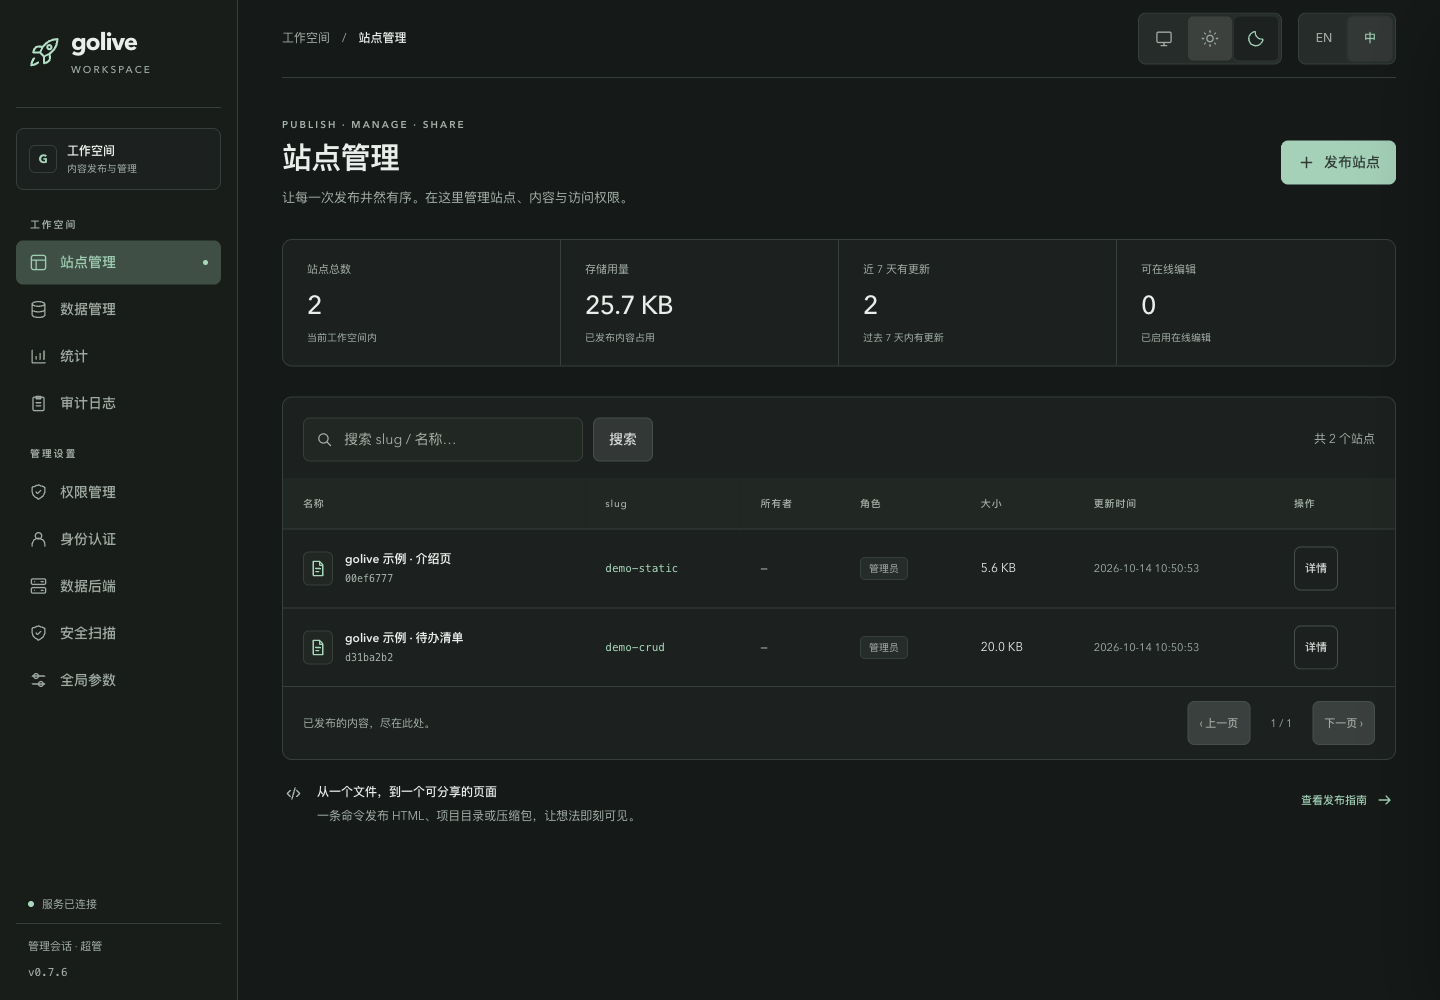
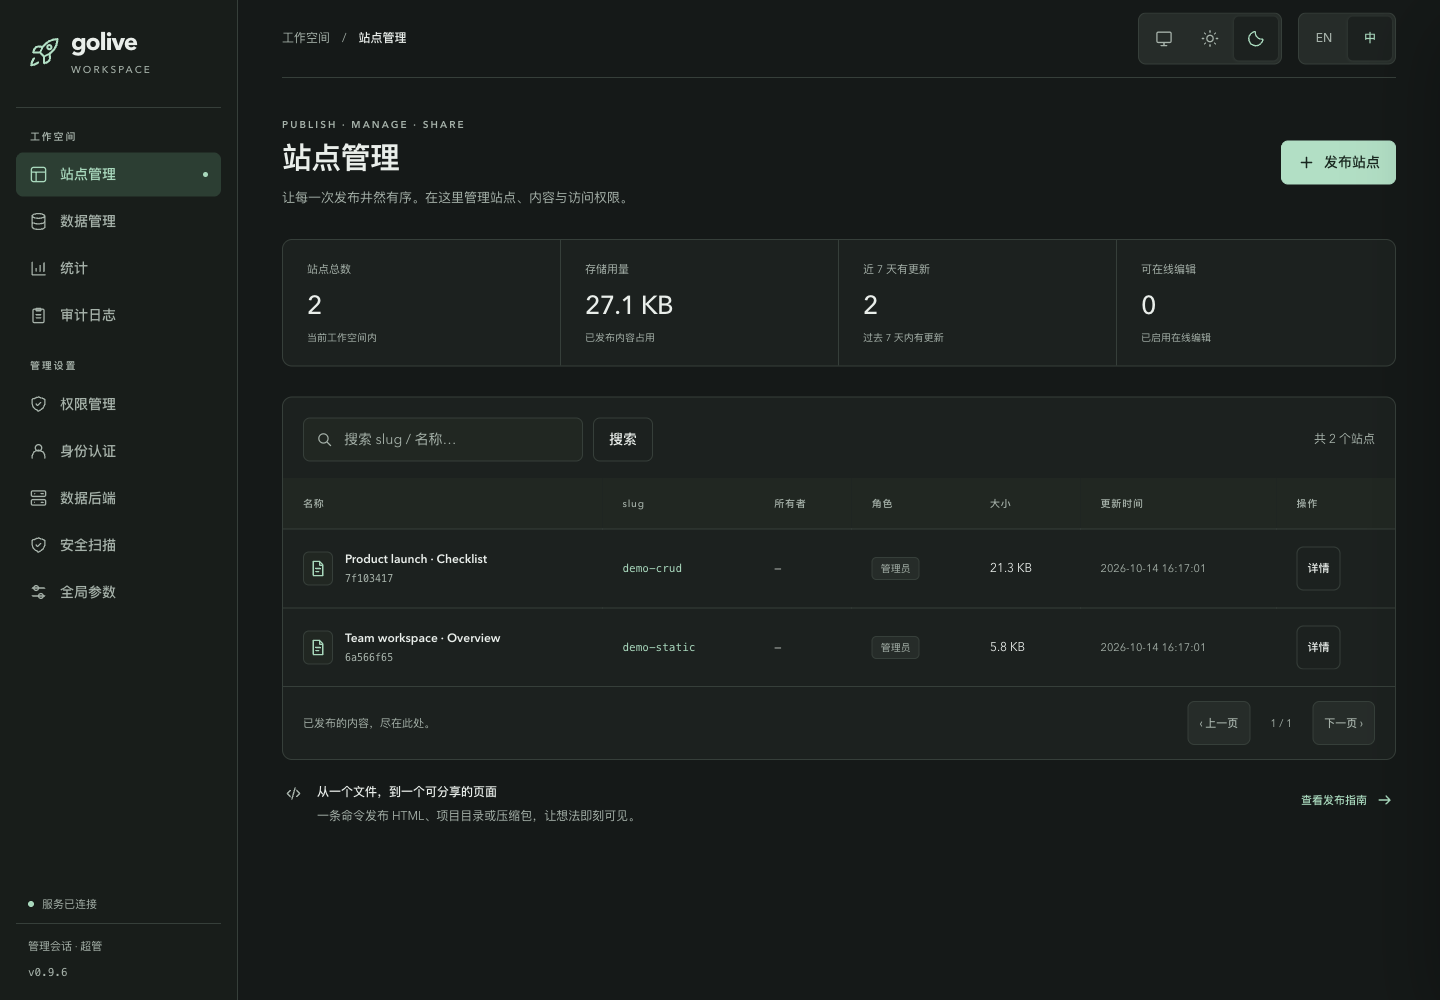
Docs 0.9.6: refresh admin screenshots, fix PyPI links and trim roadmaps

diff --git a/golive/__init__.py b/golive/__init__.py
@@ -1,3 +1,3 @@
 """html-golive — self-hosted one-command HTML deployment."""
 
-__version__ = "0.9.5"
+__version__ = "0.9.6"

diff --git a/README.md b/README.md
@@ -3,7 +3,7 @@
 [![CI](https://github.com/Songhonglei/html-golive/actions/workflows/ci.yml/badge.svg)](https://github.com/Songhonglei/html-golive/actions)
 [![PyPI](https://img.shields.io/pypi/v/html-golive)](https://pypi.org/project/html-golive/)
 [![Python](https://img.shields.io/pypi/pyversions/html-golive)](https://pypi.org/project/html-golive/)
-[![License: MIT](https://img.shields.io/github/license/Songhonglei/html-golive)](LICENSE)
+[![License: MIT](https://img.shields.io/github/license/Songhonglei/html-golive)](https://github.com/Songhonglei/html-golive/blob/main/LICENSE)
 
 > **Self-hosted one-command HTML deployment — Vercel-lite for your intranet.**
 
@@ -25,7 +25,7 @@ golive publish report.html --name "Q3 Report" --slug q3
 ```
 
 <p align="center">
-  <img src="docs/assets/demo.svg" alt="install, publish and serve an HTML page in three commands" width="760">
+  <img src="https://raw.githubusercontent.com/Songhonglei/html-golive/main/docs/assets/demo.svg" alt="install, publish and serve an HTML page in three commands" width="760">
 </p>
 
 Something not working? Run `golive verify` and paste the output into an issue.
@@ -45,11 +45,18 @@ Something not working? Run `golive verify` and paste the output into an issue.
 - [Docker](#docker)
 - [Roadmap](#roadmap)
 
-> 📖 **Full user manual**: [docs/manual.md](docs/manual.md) — every feature,
+> 📖 **Full user manual**: [docs/manual.md](https://github.com/Songhonglei/html-golive/blob/main/docs/manual.md) — every feature,
 > organised by task (publishing, editor, access control, data, security,
 > identity, migration, FAQ).
 
-![The admin portal — site management](docs/assets/admin-portal.png)
+![The admin portal — light theme](https://raw.githubusercontent.com/Songhonglei/html-golive/main/docs/assets/admin-portal.png)
+
+<details>
+<summary>Dark theme</summary>
+
+![The admin portal — dark theme](https://raw.githubusercontent.com/Songhonglei/html-golive/main/docs/assets/admin-workspace/dark-en.png)
+
+</details>
 
 <sub>The built-in admin portal at `/admin`: sites, data, permissions,
 stats, audit log, identity, data backend, security and settings —
@@ -163,7 +170,7 @@ signature-verified against the IdP's published keys (requires `pip install
 >   admins: [alice@corp.example]
 > ```
 > A common slip is putting `admins:` at the top level — it has no effect
-> there. See [manual §16](docs/manual.md#16-identity--login) for details.
+> there. See [manual §16](https://github.com/Songhonglei/html-golive/blob/main/docs/manual.md#16-identity--login) for details.
 
 ---
 
@@ -183,7 +190,7 @@ Two things bite people:
   force-pushed `main` and rewrote history. Recovery commands are in the
   guide below (force pushes to `main` are now blocked).
 
-📖 **[docs/upgrading.md](docs/upgrading.md)** — PyPI / pipx / git paths, the
+📖 **[docs/upgrading.md](https://github.com/Songhonglei/html-golive/blob/main/docs/upgrading.md)** — PyPI / pipx / git paths, the
 v0.7.0 history-rewrite recovery (with and without local changes), the
 0.6→0.7 SQLite data-layer default change, and how to roll back.
 
@@ -298,7 +305,7 @@ With the default backends the three SQLite/filesystem entries above are
 the entire persistence story — no external service is involved. Pages
 using `TemplateAPI` reach `data.db` through `golive serve`'s
 `/api/data` endpoint, so they must be loaded from the server rather than
-opened as `file://`. See [docs/data-layer.md](docs/data-layer.md).
+opened as `file://`. See [docs/data-layer.md](https://github.com/Songhonglei/html-golive/blob/main/docs/data-layer.md).
 
 ## Configuration
 
@@ -309,8 +316,8 @@ wins over yaml**:
 
 Lookup order: `--config <path>` → `$GOLIVE_CONFIG` → `./golive.yaml` →
 `$GOLIVE_HOME/golive.yaml`. Full annotated example:
-[golive.example.yaml](golive.example.yaml) · backend combinations:
-[docs/backends.md](docs/backends.md)
+[golive.example.yaml](https://github.com/Songhonglei/html-golive/blob/main/golive.example.yaml) · backend combinations:
+[docs/backends.md](https://github.com/Songhonglei/html-golive/blob/main/docs/backends.md)
 
 ### Environment variables
 
@@ -373,7 +380,7 @@ HTML, so RLS is mandatory there.
 
 API signatures are **stable contracts** — pages built on any golive
 deployment run unchanged on yours. Full guide, including the RLS notes:
-[docs/data-layer.md](docs/data-layer.md).
+[docs/data-layer.md](https://github.com/Songhonglei/html-golive/blob/main/docs/data-layer.md).
 
 > **Note**: if no data backend is configured, `--data-model` publishes
 > still succeed — the page gets a stub API that raises a clear
@@ -382,7 +389,7 @@ deployment run unchanged on yours. Full guide, including the RLS notes:
 
 Porting pages from another deployment?
 `golive migrate-check page.html` reports anything deployment-specific
-([migration guide](docs/migrate-from-intranet.md)).
+([migration guide](https://github.com/Songhonglei/html-golive/blob/main/docs/migrate-from-intranet.md)).
 
 ## Security scanning
 
@@ -393,7 +400,7 @@ from any OpenAI-compatible LLM (`security.llm.base_url`; works with
 OpenAI / Azure / Ollama / self-hosted gateways). Unconfigured installs
 keep pure rule verdicts; `strict_mode: true` refuses to publish without
 AI review. Extend with your own YAML rules, or bypass a false positive
-for content warnings with `--skip-content-scan`; credentials always block. Details: [docs/security.md](docs/security.md)
+for content warnings with `--skip-content-scan`; credentials always block. Details: [docs/security.md](https://github.com/Songhonglei/html-golive/blob/main/docs/security.md)
 
 ## Docker
 
@@ -404,37 +411,17 @@ docker compose --profile minio up -d        # + local S3 stack for images
 
 ## Roadmap
 
-- ~~**M1 — core**: publish/serve/rollback, styles, clone, preview, scan~~ ✅ v0.1
-- ~~**M2 — data layer**: Supabase backend trio, TemplateAPI/SupabaseAPI
-  injection, S3 adapters, migrate-check, Docker Compose~~ ✅ v0.2
-- ~~**M3 — editing & identity**: inline editor with versioned save API,
-  watermarking, OpenAI-compatible LLM security review, generic OIDC~~ ✅ v0.3
-- ~~**M4 — docs & polish**: OIDC provider presets, editor image upload,
-  persistent cookie secret, full user manual~~ ✅ v0.4
-- ~~**M5 — admin portal**: web operations console at `/admin`, role model
-  (superadmin/owner/maintainer), ownership transfer, audit trail~~ ✅ v0.5
-- ~~**M6 — data management**: data tab in the portal, audit log
-  rotation~~ ✅ v0.6
-- ~~**M7 — production identity & config**: id_token signature verification
-  for OIDC, trusted reverse-proxy auth, four admin pages (identity / data
-  backend / security / settings), settings & scan rules in the database,
-  English-by-default CLI, shareable LAN URLs~~ ✅ v0.7.5
-- ~~**M8 — data portability & self-check**: `golive export` / `import` /
-  `migrate` across sqlite, postgres and supabase, and `golive verify` for a
-  real end-to-end test of the data path~~ ✅ v0.8
+- WebDAV storage support.
+- Large-table aggregation and multi-instance sessions.
+- Editing conflict handling and group-based permissions.
 
-**Beyond v0.8** — the groundwork is complete, so what comes next is driven
-by what people actually run into. Candidates, roughly in order of likely
-demand: more storage channels (WebDAV), aggregation for very large tables, a
-shared session store (redis) for multi-instance setups, multi-user editing
-conflict UX, and group-based ACLs. If you hit a wall or want one of these sooner,
-[open an issue](https://github.com/Songhonglei/html-golive/issues) — real
-use cases decide the order.
+[Open an issue](https://github.com/Songhonglei/html-golive/issues) to help
+prioritise the next improvement.
 
 ## Contributing
 
 Issues and pull requests are welcome — see
-[CONTRIBUTING.md](CONTRIBUTING.md) for the development setup, code
+[CONTRIBUTING.md](https://github.com/Songhonglei/html-golive/blob/main/CONTRIBUTING.md) for the development setup, code
 conventions and what a good bug report looks like. The whole test suite
 runs offline with no cloud account:
 
@@ -445,8 +432,8 @@ python -m pytest tests/ -q
 
 ## License
 
-[MIT](LICENSE) © 2026 Songhonglei
+[MIT](https://github.com/Songhonglei/html-golive/blob/main/LICENSE) © 2026 Songhonglei
 
 ---
 
-中文文档请见 [README.zh-CN.md](README.zh-CN.md)。
+中文文档请见 [README.zh-CN.md](https://github.com/Songhonglei/html-golive/blob/main/README.zh-CN.md)。

diff --git a/golive/resources/skill/SKILL.md b/golive/resources/skill/SKILL.md
@@ -3,7 +3,7 @@ name: html-golive
 slug: html-golive
 displayName: html-golive
 description: Publish, update and manage HTML pages on a self-hosted golive instance through the local `golive` CLI. golive runs entirely on the user's own machine or server — it is not a hosted service and has no relation to any online deployment platform or to any similarly named internal tool. Use when the user wants to put an HTML file, project directory or archive online on their own infrastructure, update or roll back a site they already published, give a static page real data persistence via `window.TemplateAPI`, or administer sites, owners and maintainers. Trigger phrases include "publish this page", "deploy this HTML", "put this on golive", "update the site", "roll it back", "golive".
-version: 0.9.5
+version: 0.9.6
 license: MIT
 homepage: https://github.com/Songhonglei/html-golive
 ---

diff --git a/CHANGELOG.md b/CHANGELOG.md
@@ -3,6 +3,15 @@
 All notable changes to this project will be documented in this file.
 The format is based on [Keep a Changelog](https://keepachangelog.com/en/1.1.0/).
 
+## [0.9.6] - 2026-10-14
+
+Documentation-only patch; runtime behavior is unchanged from 0.9.5.
+
+- Replace old admin screenshots with the current workspace in light/dark themes and both languages; refresh mobile and settings previews.
+- Use absolute GitHub documentation and raw image links so the README works on PyPI, including the Chinese README link.
+- Keep only future work in the English and Chinese roadmaps.
+
+
 ## [0.9.5] - 2026-10-14
 
 Based on v0.9.4, retaining its security gate, portability commands and clean wheel packaging.

diff --git a/docs/admin-workspace.md b/docs/admin-workspace.md
@@ -1,6 +1,6 @@
 # 管理后台：静雅控制台
 
-设计与验证日期：2026-10-14。实现位于 `golive/server/admin_ui.py`，已整合到 0.9.5，基于 0.9.4 最新发布代码；下文分轮次保留设计验证记录。
+设计与验证日期：2026-10-14。截图已按 0.9.6 文档补丁重新采集，展示 0.9.5 的当前界面。实现位于 `golive/server/admin_ui.py`，已整合到 0.9.5，基于 0.9.4 最新发布代码；下文分轮次保留设计验证记录。
 
 ## 侧栏与连接诊断修复
 
